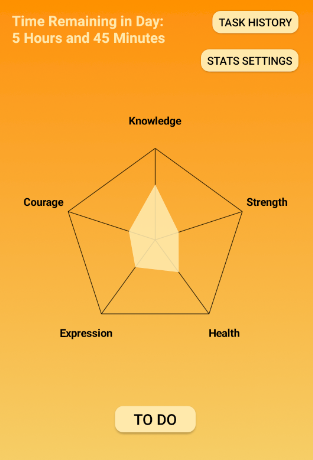
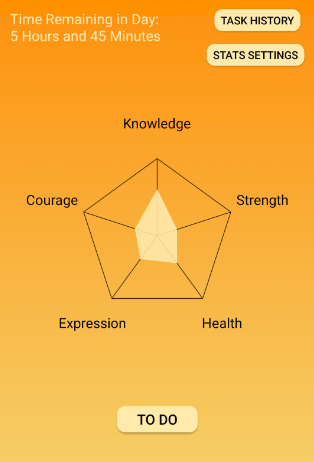
font change

diff --git a/app/src/main/java/com/example/mystats/activities/MainActivity.java b/app/src/main/java/com/example/mystats/activities/MainActivity.java
@@ -137,8 +137,7 @@ public class MainActivity extends AppCompatActivity {
         chart.setScaleY((float) chart_size / 100);
 
         XAxis xAxis = chart.getXAxis();
-        xAxis.setTypeface(Typeface.DEFAULT_BOLD);
-        xAxis.setTextSize(14);
+        xAxis.setTextSize(18);
         xAxis.setTextColor(mChartWebColor);
 
         YAxis yAxis = chart.getYAxis();
